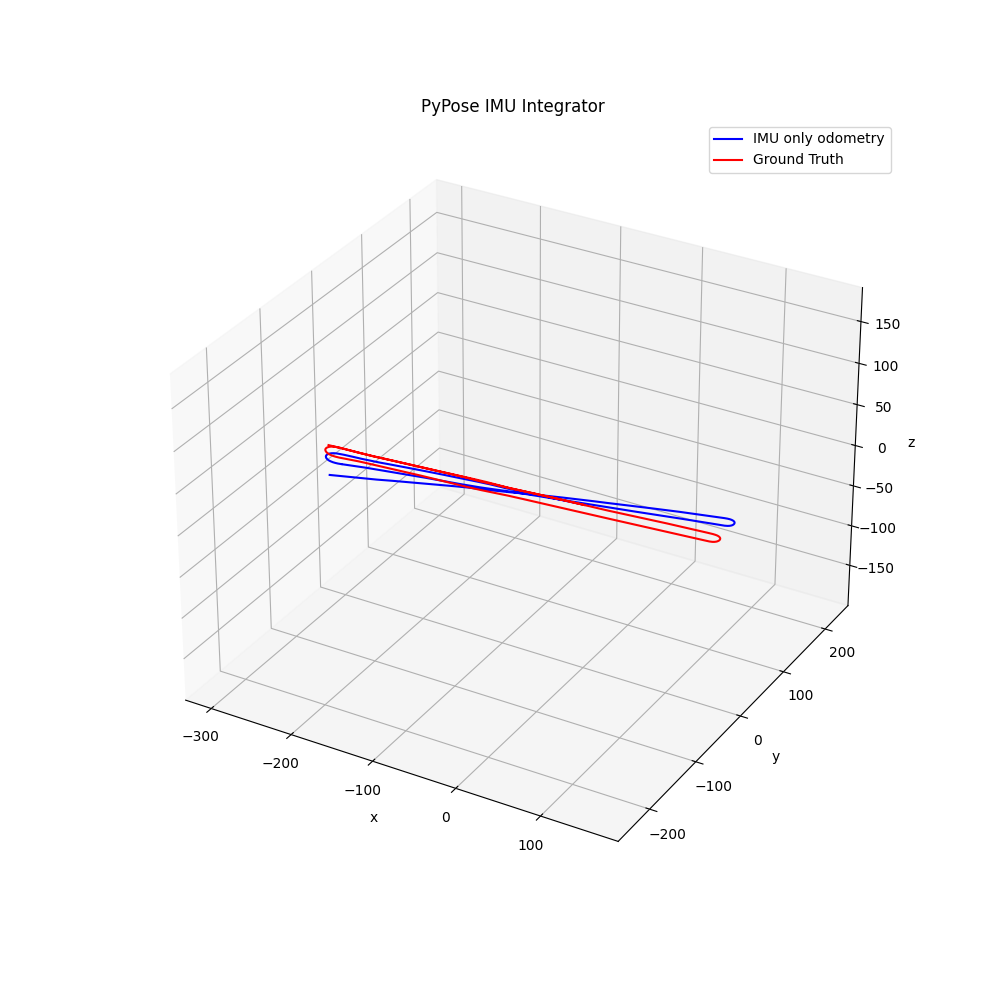
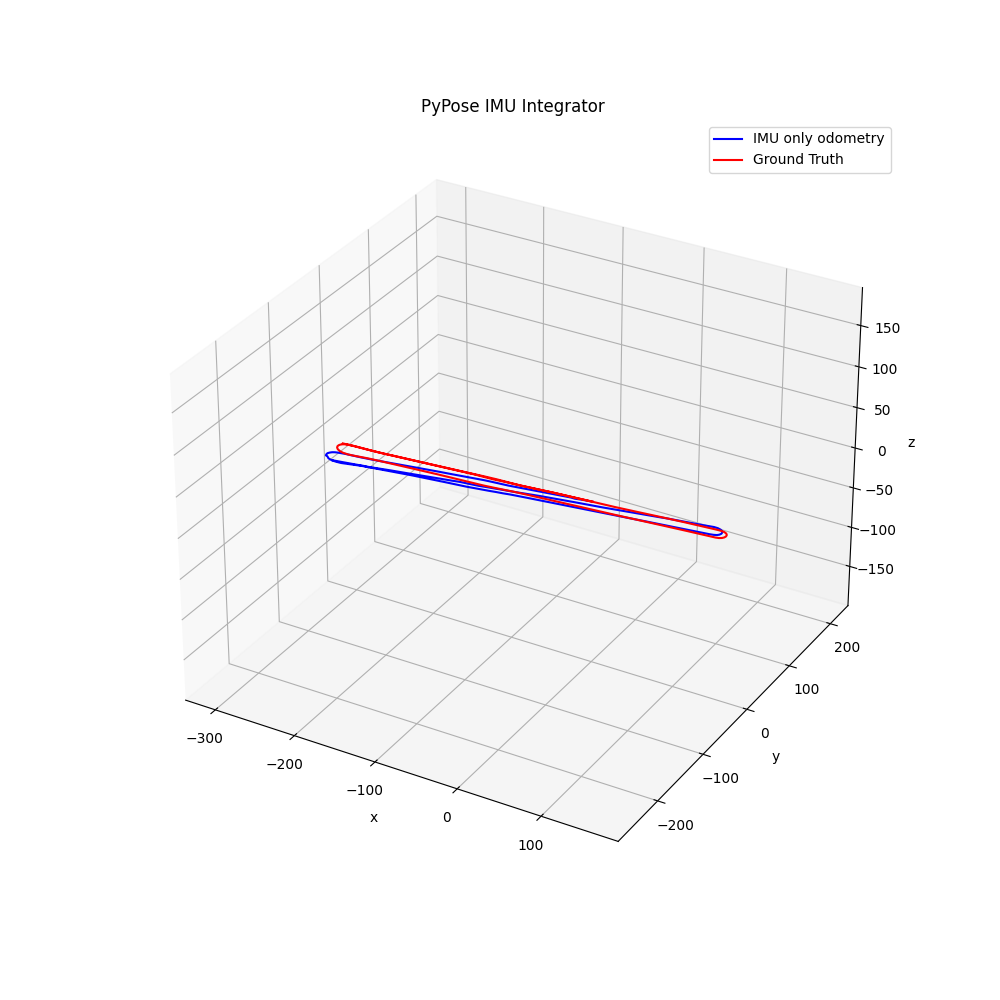
working solution backup (up to 6tseps is tested and ok (means 6scan skipped icp!)

diff --git a/imu/integration/python/main.py b/imu/integration/python/main.py
@@ -67,7 +67,7 @@ if __name__ == "__main__":
 
     for idx, data in enumerate(tqdm(loader)):
 
-        # if idx > 250:
+        # if idx > 100:
         #     break
 
         """
@@ -95,12 +95,11 @@ if __name__ == "__main__":
             relative_tf_by_imu = np.identity(4)
         else:
             relative_tf_by_imu = \
-                np.linalg.inv(pose_previous) @ prop_global_pose
+                np.linalg.inv(prop_global_pose_prev) @ prop_global_pose
 
-        sparse_correction_gap = 1
-        on_correction = (idx % sparse_correction_gap) == 0
-        print(f"on_correction {on_correction}")
-        if not (on_correction and is_true(cfg["use_lidar_correction"])):
+        prop_global_pose_prev = prop_global_pose
+
+        if not is_true(cfg["use_lidar_correction"]):
             append_log(data, state)
             # early return
             continue
@@ -108,11 +107,12 @@ if __name__ == "__main__":
         """
             step 2: lossely correction
         """
+
         pcd = downsample_points(data["velodyne"][0], cfg)
 
         if pcd_previous is None:
             # renwal for next
-            pose_previous = pose_corrected
+            pose_previous = prop_global_pose
             pcd_previous = pcd
             # early return
             continue
@@ -120,35 +120,46 @@ if __name__ == "__main__":
         # print(pcd)
         source = pcd
         target = pcd_previous
-        tf_init = relative_tf_by_imu
+        lidar_delta_tf_init = calib.imu2velo @ relative_tf_by_imu @ calib.velo2imu
+        # lidar_delta_tf_init = np.identity(4)
 
         # @timeit
-        def icp():
-            return o3d.pipelines.registration.registration_generalized_icp(
-                source, target, cfg["icp_inlier_threshold"], tf_init,
-                o3d.pipelines.registration.TransformationEstimationForGeneralizedICP())
+        def icp(source, target):
+            source.estimate_normals()
+            target.estimate_normals()
+            return o3d.pipelines.registration.registration_icp(
+                source, target, cfg["icp_inlier_threshold"], lidar_delta_tf_init,
+                o3d.pipelines.registration.TransformationEstimationPointToPlane(),
+                o3d.pipelines.registration.ICPConvergenceCriteria(max_iteration=30)).transformation
 
-        reg_p2p = icp()
+        lidar_delta_tf = icp(source, target)
+
+        def inspect_false_registration():
+            diff = np.linalg.inv(lidar_delta_tf) @ lidar_delta_tf_init
+            print("diff ", diff[:3, -1].transpose())
+
+        inspect_false_registration()
 
         if is_true(cfg["visualize_registered_scan"]):
             draw_registration_result(
-                source, target, reg_p2p.transformation)
-
-        def update_pva(pos, vel, rot):
-            integrator.pos = pos
-            integrator.vel = vel
-            integrator.rot = rot
+                source, target, lidar_delta_tf)
 
         # loosely correction
-        if idx == 1:
+        if pose_corrected is None:
             print(pcd)
             pose_corrected = prop_global_pose
         else:
-            print(pose_previous)
-            pose_corrected = pose_previous @ \
-                (calib.velo2imu @ reg_p2p.transformation @ calib.imu2velo)
+            def update_pose_via_handeye():
+                return pose_previous @ (calib.velo2imu @ lidar_delta_tf @ calib.imu2velo)
 
-            # see https://pypose.org/docs/main/_modules/pypose/module/imu_preintegrator/#IMUPreintegrator
+            def update_pva(pos, vel, rot):
+                integrator.pos = pos
+                integrator.vel = vel
+                integrator.rot = rot
+
+            # see https://pypose.org/docs/main/
+            # _modules/pypose/module/imu_preintegrator/#IMUPreintegrator
+            pose_corrected = update_pose_via_handeye()
             update_pva(pos=torch.tensor(pose_corrected[:3, -1]).unsqueeze(0),
                        vel=torch.tensor(
                            pose_corrected[:3, -1] - pose_previous[:3, -1]).unsqueeze(0),
